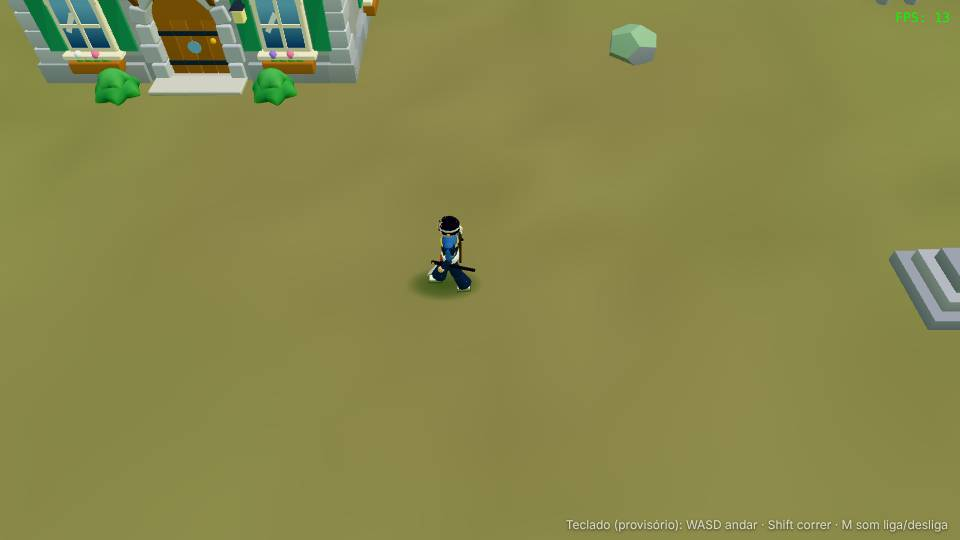
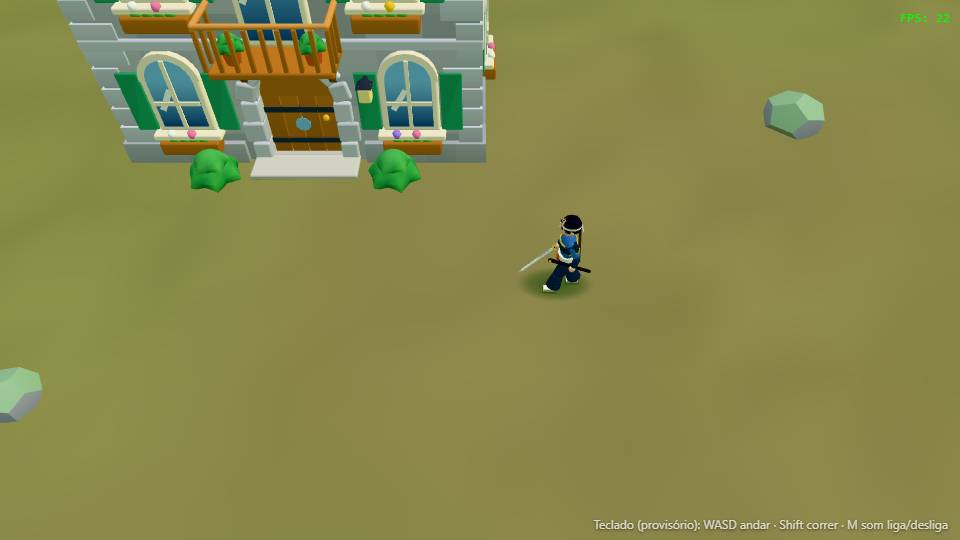
S1: controle de videogame, câmera que olha à frente e tremor
Controle (engine/input/gamepad.js): stick com zona morta, segurar B corre,
botões do DESIGN 3.7 já mapeados, vibração e aviso de conectado.
Câmera olha ~1,5 m à frente de para onde o peregrino anda e ganha tremor
(T / Y testam, só no npm run dev). Replay +10 s com controle de mentira e
câmera no hash (--update-sim). Smoke com controle de mentira.
sim.mjs passa a rodar no Windows.

diff --git a/src/game/main.js b/src/game/main.js
@@ -6,6 +6,7 @@ import { CreateEntityShadows } from '../engine/render/entity-shadows'
 import { Fps } from '../engine/render/follow'
 import { wind } from '../engine/render/style'
 import { BindKeyboard } from '../engine/input/keyboard'
+import { BindGamepad } from '../engine/input/gamepad'
 import { SetDeepTest } from '../engine/world/collision'
 import { SetGround, TooDeep } from '../engine/world/ground'
 import { SetEars } from '../engine/audio/engine'
@@ -25,6 +26,23 @@ function Wire(camera) {
   events.on('door-close', (d) => sfx('doorclose', d))
 }
 
+// impacto (golpe, aparo, golpe recebido): tremor de tela e vibração do controle. Números em balance.js · juice
+function Impact(kind, camera, pad) {
+  const S = BALANCE.juice.shake, R = BALANCE.juice.rumble, r = R[kind]
+  camera.shake((S[kind] || 0) * S.scale, S.time)
+  if (r && R.scale > 0) pad.rumble(Math.min(1, r[0] * R.scale), Math.min(1, r[1] * R.scale), r[2])
+}
+
+// aviso curto no alto da tela (ex.: "Controle conectado")
+let noteTimer
+function Note(text) {
+  const el = document.getElementById('note')
+  el.textContent = text
+  el.classList.add('on')
+  clearTimeout(noteTimer)
+  noteTimer = setTimeout(() => el.classList.remove('on'), 3500)
+}
+
 export async function LoadGame() {
   const target = document.getElementById('render-target')
   const renderer = new THREE.WebGLRenderer({ antialias: true })
@@ -40,9 +58,24 @@ export async function LoadGame() {
   BuildArena(scene, BALANCE.arena.size)
 
   const game = CreateGame(scene)
-  game.addPlayer('local', 'Peregrino') // S0: sem menu, o jogador do teclado já entra
-  BindKeyboard({ players: game.players, setInput: game.setInput, act: game.act })
-  if (import.meta.env.DEV) window.__game = game // só no npm run dev: para testes automáticos e depuração
+  game.addPlayer('local', 'Peregrino') // sem menu: teclado e controle mexem o mesmo jogador
+  const DEV = import.meta.env.DEV
+  // só no npm run dev: T (teclado) e Y (controle) testam o tremor de um golpe pesado, até os golpes chegarem (S3)
+  const act = (id, a) => (DEV && a === 'tremor' ? events.emit('impact', { kind: 'heavy' }) : game.act(id, a))
+  const input = { players: game.players, setInput: game.setInput, act }
+  BindKeyboard(input, DEV ? { t: 'tremor' } : {})
+  const help = document.getElementById('help')
+  const HELP = {
+    keys: help.textContent + (DEV ? ' · T testa o tremor' : ''),
+    pad: 'Controle: stick esquerdo anda · segure B correr' + (DEV ? ' · Y testa o tremor' : ''),
+  }
+  help.textContent = HELP.keys
+  const pad = BindGamepad(input, { ...BALANCE.pad, press: { ...BALANCE.pad.press, ...(DEV && { Y: 'tremor' }) } }, (name) => {
+    help.textContent = name ? HELP.pad : HELP.keys
+    Note(name ? `Controle conectado: ${name}` : 'Controle desconectado')
+  })
+  events.on('impact', (d) => Impact(d.kind, camera, pad))
+  if (DEV) window.__game = game // só no npm run dev: para testes automáticos e depuração
 
   addEventListener('resize', () => {
     camera.resize(target.offsetWidth / target.offsetHeight)
@@ -50,6 +83,7 @@ export async function LoadGame() {
   })
 
   function draw(dt) {
+    pad.poll() // o controle não avisa sozinho: lê a cada quadro, antes do jogo andar
     game.update(dt)
     wind.value += dt // vento: só um número; o balanço das folhas acontece na placa de vídeo
     const list = [...game.players.values()]

diff --git a/src/engine/input/gamepad.js b/src/engine/input/gamepad.js
@@ -1,0 +1,57 @@
+// Controle de videogame (API Gamepad do navegador, mapeamento "standard": Xbox e PlayStation têm os mesmos números).
+// O navegador só mostra o controle depois que alguém aperta um botão nele.
+// Não há aviso por quadro: o jogo chama poll() uma vez por quadro, ANTES de atualizar o jogo.
+// Manda o mesmo contrato do teclado (engine/input/contract.js): setInput(id, { mx, mz, ax, az, run }) e act(id, ação).
+// map = { dead, hold: { botão: campo do setInput }, press: { botão: ação } } — quem escolhe os botões é o jogo.
+
+// nome do botão → posição no controle (mapeamento standard)
+export const PAD = { A: 0, B: 1, X: 2, Y: 3, LB: 4, RB: 5, LT: 6, RT: 7, VIEW: 8, MENU: 9, L3: 10, R3: 11, UP: 12, DOWN: 13, LEFT: 14, RIGHT: 15 }
+
+// stick com zona morta redonda; o resto é reescalado (inclinar pouco = andar devagar, sem salto na borda da zona)
+export function Stick(x, y, dead) {
+  const m = Math.hypot(x, y)
+  if (m <= dead) return [0, 0]
+  const k = Math.min(1, (m - dead) / (1 - dead)) / m
+  return [x * k, y * k]
+}
+
+const down = (pad, name) => (pad.buttons[PAD[name]]?.value || 0) > 0.5 // gatilhos são analógicos: meio curso = apertado
+
+// leitura pura (o replay usa sem navegador): mensagem do setInput, botões apertados e se o controle está em uso
+export function ReadPad(pad, map) {
+  const [mx, mz] = Stick(pad.axes[0] || 0, pad.axes[1] || 0, map.dead)
+  const msg = { mx, mz, ax: 0, az: 0, run: 0 }
+  let busy = mx !== 0 || mz !== 0
+  for (const name in map.hold) if (down(pad, name)) { msg[map.hold[name]] = 1; busy = true }
+  const pressed = Object.keys(map.press).filter((name) => down(pad, name))
+  return { msg, pressed, busy }
+}
+
+// liga o controle a um jogador. onPad(nome | null): conectou / desconectou (para avisar na tela)
+export function BindGamepad(game, map, onPad = () => {}, id = 'local') {
+  let pad = null, held = new Set(), idle = true
+
+  function find() {
+    const list = [...(navigator.getGamepads?.() || [])].filter((p) => p && p.connected)
+    return list.find((p) => p.mapping === 'standard') || list[0] || null
+  }
+  function poll() {
+    const now = find()
+    if ((now && now.id) !== (pad && pad.id)) onPad(now ? now.id.replace(/\s*\(.*$/, '') || 'controle' : null)
+    pad = now
+    if (!game.players.has(id)) return
+    if (!pad) { if (!idle) game.setInput(id, { mx: 0, mz: 0, ax: 0, az: 0, run: 0 }); idle = true; held.clear(); return }
+    const r = ReadPad(pad, map)
+    // parado não manda nada (o teclado continua valendo); ao soltar, manda um "parado" só uma vez
+    if (r.busy || !idle) game.setInput(id, r.msg)
+    idle = !r.busy
+    for (const name of r.pressed) if (!held.has(name)) game.act(id, map.press[name])
+    held = new Set(r.pressed)
+  }
+  // vibração (0 a 1 em cada motor; ms = duração). Navegador sem vibração: não faz nada
+  function rumble(strong, weak, ms) {
+    const v = pad && pad.vibrationActuator
+    if (v && v.playEffect) v.playEffect('dual-rumble', { duration: ms, strongMagnitude: strong, weakMagnitude: weak }).catch(() => {})
+  }
+  return { poll, rumble }
+}

diff --git a/src/game/camera.js b/src/game/camera.js
@@ -1,27 +1,54 @@
 import * as THREE from 'three'
 
 // Câmera de cima em 3/4, fixa (não gira): segue o jogador com suavidade. Números em balance.js · camera.
-// Próximo PR (S1): antecipação para onde o jogador anda, tremor no impacto e, no S4, enquadrar o alvo travado.
+// Antecipação: olha um pouco à frente de para onde o jogador anda (mais tela do lado para onde ele vai).
+// Tremor: shake(força, tempo) desliza a câmera por um instante, sem girar (receita do survivor, engine/render/splitscreen.js).
+// No S4: enquadrar o alvo travado.
 export function CreateCamera(aspect, tune) {
   const cam = new THREE.PerspectiveCamera(tune.fov, aspect, 0.4, 120)
   const focus = new THREE.Vector3()
+  const lead = { x: 0, z: 0 }
+  const shakes = [] // tremores ativos: { power, time, t }
   let first = true
 
   function update(dt, p) {
     if (!p) return
     const y = p.gy || 0
-    if (first) { focus.set(p.x, y, p.z); first = false }
+    // antecipação proporcional à velocidade (parado = nenhuma), suavizada à parte: virar não dá tranco.
+    // + v / follow: a suavidade deixa a câmera para trás (v / follow metros); sem compensar, comeria a antecipação
+    const s = Math.hypot(p.vx, p.vz), want = s > 0.05 ? (Math.min(1, s / tune.leadSpeed) * tune.lead) / s + 1 / tune.follow : 0
+    const kl = 1 - Math.exp(-tune.leadFollow * dt)
+    lead.x += (p.vx * want - lead.x) * kl
+    lead.z += (p.vz * want - lead.z) * kl
+    const tx = p.x + lead.x, tz = p.z + lead.z
+    if (first) { focus.set(tx, y, tz); first = false }
     const k = 1 - Math.exp(-tune.follow * dt)
-    focus.x += (p.x - focus.x) * k
+    focus.x += (tx - focus.x) * k
     focus.y += (y - focus.y) * k
-    focus.z += (p.z - focus.z) * k
+    focus.z += (tz - focus.z) * k
     cam.position.set(focus.x, focus.y + tune.height, focus.z + tune.back)
     cam.lookAt(focus.x, focus.y + tune.lookY, focus.z)
+
+    // tremor: soma dos tremores ativos, mais fraco no fim; a câmera só desliza (já olhou para o jogador)
+    let sh = 0
+    for (let i = shakes.length - 1; i >= 0; i--) {
+      const q = shakes[i]
+      if ((q.t += dt) >= q.time) { shakes.splice(i, 1); continue }
+      sh += q.power * (1 - q.t / q.time) ** 2
+    }
+    if (sh > 0) {
+      sh = Math.min(sh, tune.shakeMax)
+      cam.position.x += (Math.random() - 0.5) * 2 * sh
+      cam.position.z += (Math.random() - 0.5) * 2 * sh
+      cam.position.y += (Math.random() - 0.5) * sh
+    }
   }
 
   return {
     cam,
     update,
+    // power = deslocamento máximo (m); time = duração (s)
+    shake(power, time) { if (power > 0 && time > 0) shakes.push({ power, time, t: 0 }) },
     // inclinação da linha de visada (sobe tanto por metro em direção à câmera): o recorte das casas usa
     slope: (tune.height - tune.lookY) / tune.back,
     resize(aspect) { cam.aspect = aspect; cam.updateProjectionMatrix() },

diff --git a/src/game/config/balance.js b/src/game/config/balance.js
@@ -11,7 +11,7 @@ export const BALANCE = {
   // Movimento: mesmos campos do survivor (shared/characters/player-movement.js · DEFAULT_MOVE)
   move: {
     walk: 4.4, // velocidade andando (m/s), igual ao survivor
-    run: 6.6, // velocidade correndo (Shift por enquanto; no S2 vira "segurar rolar")
+    run: 6.6, // velocidade correndo (Shift ou segurar B no controle; no S2 o Espaço também vira "segurar rolar")
     aim: 3.1, // velocidade com o mouse apertado (mira do survivor; sai quando o ataque do souls chegar)
     swim: 3.1, // nadando (a arena não tem água)
     staminaRun: 15, // fôlego gasto por segundo correndo
@@ -29,6 +29,27 @@ export const BALANCE = {
     lookY: 0.5, // altura do ponto que a câmera olha (m)
     fov: 45, // campo de visão (graus)
     follow: 6, // quanto mais alto, mais grudada no jogador (suavidade)
+    lead: 1.5, // antecipação: a câmera olha até 1,5 m à frente de para onde o jogador anda (0 desliga)
+    leadSpeed: 4.4, // a partir desta velocidade (m/s) a antecipação fica inteira (andando já é tudo)
+    leadFollow: 2.5, // suavidade da antecipação: mais baixo = demora mais para mudar quando ele vira
+    shakeMax: 0.4, // tremor máximo, somando vários ao mesmo tempo (m)
+  },
+
+  // Sensação de impacto (DESIGN 8). Por enquanto só a tecla T / botão Y testam (no npm run dev); os golpes chegam no S3
+  juice: {
+    // tremor de tela: quanto a câmera balança (m) em cada caso, e por quanto tempo (s). scale 0 desliga todos
+    shake: { scale: 1, time: 0.25, heavy: 0.1, critical: 0.18, hitTaken: 0.15 },
+    // vibração do controle: [motor forte, motor fraco (0 a 1), duração (ms)]. scale 0 desliga
+    rumble: { scale: 1, heavy: [0.35, 0.5, 110], critical: [0.7, 0.8, 200], hitTaken: [0.6, 0.6, 160] },
+  },
+
+  // Controle de videogame (DESIGN 3.7). Nomes no padrão Xbox: A B X Y · LB RB (ombros) · LT RT (gatilhos) · L3 R3 (apertar o stick)
+  // No PlayStation: A = ✕, B = ◯, X = ▢, Y = △, LB/RB = L1/R1, LT/RT = L2/R2
+  pad: {
+    dead: 0.2, // zona morta do stick (0 a 1): abaixo disso conta como solto (evita andar sozinho com o stick gasto)
+    hold: { B: 'run' }, // segurar: B corre (no S2, tocar B rola)
+    // apertar: cada ação só faz efeito quando o PR dela chegar (bater S3, travar S4, aparar S6, cabaça S7)
+    press: { A: 'use', X: 'heal', RB: 'light', RT: 'heavy', LT: 'parry', R3: 'lock', RIGHT: 'swap' },
   },
 
   arena: {

diff --git a/main.css b/main.css
@@ -3,3 +3,5 @@ html, body { height: 100%; margin: 0; background: #15120f; overflow: hidden; fon
 #fps-element { font-family: monospace; position: fixed; color: #0f0; right: 10px; top: 10px; z-index: 5 }
 #hud { position: fixed; inset: 0; pointer-events: none; color: #fff; text-shadow: 0 1px 3px #000 }
 #help { position: absolute; bottom: 8px; right: 12px; font-size: 12px; opacity: .7 }
+#note { position: absolute; top: 14px; left: 50%; transform: translateX(-50%); padding: 6px 14px; border-radius: 6px; background: #0009; font-size: 15px; white-space: nowrap; opacity: 0; transition: opacity .4s }
+#note.on { opacity: 1 }

diff --git a/index.html b/index.html
@@ -11,6 +11,7 @@
     <div id="fps-element"></div>
     <div id="root-window"><div id="render-target"></div></div>
     <div id="hud">
+      <div id="note"></div>
       <div id="help">Teclado (provisório): WASD andar · Shift correr · M som liga/desliga</div>
     </div>
     <script type="module">

diff --git a/CLAUDE.md b/CLAUDE.md
@@ -32,13 +32,16 @@ npm run build    # gera dist/ (para hospedar)
 - `npm run check` — poucos segundos, sem navegador. Rodar SEMPRE antes de abrir PR. Duas verificações:
   1. **Camadas:** imports só descem (`src/game` → `src/shared` → `src/engine`); import para arquivo ou pacote inexistente falha;
      a página tem de apontar para scripts que existem.
-  2. **Jogo (replay):** `scripts/sim.mjs` joga 60 s com sorteio e relógio fixos e compara o hash com `scripts/sim-fingerprint.txt`.
-     Roteiro do S0: anda em 8 direções (bate no muro, no cruceiro, nas pedras), corre às vezes, vai até a porta da casa, entra e sai.
+  2. **Jogo (replay):** `scripts/sim.mjs` joga 70 s com sorteio e relógio fixos e compara o hash (jogador + câmera) com `scripts/sim-fingerprint.txt`.
+     Roteiro: S0 (0–60 s) anda em 8 direções (bate no muro, no cruceiro, nas pedras), corre às vezes, vai até a porta da casa, entra e sai.
+     S1 (60–70 s) controle de mentira: stick pela metade (anda devagar), diagonal segurando B (corre), stick quase solto (parado).
      **PR de organização tem de dar igual.** PR que muda a jogabilidade de propósito: `npm run check -- --update-sim` e dizer isso na descrição.
      Cada PR de jogabilidade acrescenta a sua cena ao roteiro. `SIM_TRACE=arquivo node scripts/sim.mjs` grava o rastro quadro a quadro.
-- `npm run smoke` — teste automático (~1 min). Compila, sobe a página na porta **5199**, abre no Chromium sem tela, anda com o teclado
-  e **falha se aparecer qualquer `console.error`** ou erro de página. Capturas e log em `smoke/` (versionados: o PR mostra as capturas).
-  Sem acesso ao download do Playwright: `SMOKE_CHROME=/usr/bin/google-chrome node scripts/smoke.mjs` usa um Chrome já instalado.
+- `npm run smoke` — teste automático (~1 min). Compila, sobe a página na porta **5199**, abre no Chromium sem tela, anda com o teclado,
+  joga com um controle de mentira (`navigator.getGamepads` trocado) e **falha se aparecer qualquer `console.error`** ou erro de página.
+  Capturas e log em `smoke/` (versionados: o PR mostra as capturas). O smoke usa a versão compilada: o que é só do `npm run dev` (tecla T) fica de fora.
+  Sem acesso ao download do Playwright: `SMOKE_CHROME=/usr/bin/google-chrome node scripts/smoke.mjs` usa um Chrome já instalado
+  (no Windows: `$env:SMOKE_CHROME="C:\Program Files\Google\Chrome\Application\chrome.exe"; node scripts/smoke.mjs`).
   Sem placa de vídeo o jogo roda a 3–10 FPS: pega erro de carregar/iniciar/teclas, não bugs de longo prazo.
 - `docs/TESTE-MANUAL.md` — checklist de poucos minutos que o dono roda depois de cada PR (inclui anotar o FPS).
 - FPS real só vale na máquina do dono. Nunca tire conclusão de desempenho pelo smoke.
@@ -51,10 +54,10 @@ index.html, main.css      página do jogo → carrega src/game/main.js
 scripts/                  check.mjs (camadas + replay), sim.mjs (replay), smoke.mjs (navegador sem tela), sim-fingerprint.txt
 smoke/                    capturas + log do último npm run smoke
 docs/                     DESIGN (direção do jogo), ORIGEM (de onde veio cada arquivo), COMO-FUNCIONA (leigo), TESTE-MANUAL (checklist)
-src/engine/               genérico (copiado do survivor; novo: world/ground.js)
+src/engine/               genérico (copiado do survivor; novos: world/ground.js, input/gamepad.js)
   core/                   loop.js (laço, dt ≤ 0,05), events.js (avisos), memo.js (cache com limite)
   render/                 style.js (paleta, materiais, vento), light.js, entity-shadows.js (sombras falsas), follow.js (FPS)
-  input/                  contract.js (contrato de input), keyboard.js (teclado+mouse)
+  input/                  contract.js (contrato de input), keyboard.js (teclado+mouse), gamepad.js (controle de videogame, vibração)
   audio/engine.js         Web Audio: barramentos, primitivas, som posicional
   world/                  collision.js (grade de colisão), pathing.js (desvio, A*), noise.js, ground.js (chão/água que o jogo informa)
 src/shared/               peças prontas (copiadas do survivor)
@@ -65,9 +68,10 @@ src/shared/               peças prontas (copiadas do survivor)
   fx/                     effects.js, gore.js
   audio/                  sfx.js (efeitos soltos)
 src/game/                 este jogo
-  main.js                 liga tudo: renderer, luz, arena, câmera, teclado, laço; Wire() conecta motor ↔ peças ↔ sons
+  main.js                 liga tudo: renderer, luz, arena, câmera, teclado, controle, laço; Wire() conecta motor ↔ peças ↔ sons;
+                          Impact() = tremor + vibração; Note() = aviso curto no alto da tela
   game.js                 estado e regras (sem desenhar: o replay roda isto sem navegador)
-  camera.js               câmera de cima em 3/4, fixa, seguindo o jogador
+  camera.js               câmera de cima em 3/4, fixa: segue o jogador olhando ~1,5 m à frente (antecipação); tremor (shake)
   config/balance.js       TODOS os números ajustáveis, comentados em português
   world/arena.js          arena de teste (S0): chão, muro, cruceiro, hórreo, carvalhos, pedras e uma casa
   world/place-house.js    põe uma casa do survivor no mapa (trecho do gerador do survivor)
@@ -77,14 +81,17 @@ src/game/                 este jogo
 - `SetGround(fn, água)` (`engine/world/ground.js`): o jogo diz a altura do chão e da água. Movimento e sangue perguntam ali.
 - `SetDeepTest(TooDeep)`: água funda bloqueia. `SetCameraSlope(s)`: inclinação da câmera para o recorte do telhado.
 - Avisos (`engine/core/events.js`): as casas emitem `door-open`, `door-close`; o jogo toca o som.
+  `impact` ({ kind: `heavy` | `critical` | `hitTaken` }) → `Impact()` em `main.js`: tremor de tela + vibração (`BALANCE.juice`).
+  No S1 só a tecla T / botão Y (só no `npm run dev`) emitem; a partir do S3 os golpes emitem.
 - Peças de `shared` recebem os números como parâmetro: `UpdatePlayerMovement(p, dt, colliders, BALANCE.move)`.
 
 ## Contrato de input (proteger)
 Copiado do survivor. **Só ganha coisas, nunca muda** (para o co-op pelo celular funcionar depois).
 - `game.setInput(id, { mx, mz, ax, az, run, fire })` — mover (-1..1), mirar (-1..1), correr 0/1, `fire` só no mouse.
-- `game.act(id, ação)` — no S0 nenhuma ação faz efeito. Planejadas (DESIGN 3.7): `light`, `heavy`, `roll`, `parry`, `lock`, `heal`
+- `game.act(id, ação)` — no S1 nenhuma ação faz efeito. Planejadas (DESIGN 3.7): `light`, `heavy`, `roll`, `parry`, `lock`, `heal`
   (`use` e `swap` já existem). Bloquear (`guard`) é de segurar: entra como campo novo no `setInput`.
-- Jogador do teclado tem id `'local'`.
+- Teclado e controle mexem o mesmo jogador, id `'local'`. O controle manda o mesmo contrato (`engine/input/gamepad.js`);
+  os botões ficam em `BALANCE.pad` (`hold` = segurar → campo do `setInput`; `press` = apertar → `game.act`). Já mapeados com as ações do DESIGN 3.7.
 
 ## Decisões tomadas (não reabra sem perguntar ao dono)
 - Repositório próprio; peças copiadas do survivor (origem `e4314ee`). Conceito A (O Camiño das Ánimas), moeda cera.
@@ -118,6 +125,14 @@ TypeScript, ECS, engine nova, React. Publicar qualquer coisa.
 ## Fatos que não são óbvios no código
 - O visual do jogador é o do **Samurai** do survivor (`BALANCE.player.look`), provisório até o peregrino.
 - A tecla **Shift** corre e o **Espaço** ainda chama `jump` (o survivor pula; aqui não faz nada). No S2 o Espaço vira rolar.
+- Controle: **segurar B** corre. No S2, tocar B rola (segurar continua correndo).
+- O navegador só mostra o controle depois que alguém **aperta um botão** nele (não basta plugar). Aí aparece "Controle conectado".
+  E só em página segura (https ou localhost: o Codespaces já é https); a prévia embutida do VS Code pode bloquear. Usar uma aba normal.
+- O controle é lido a cada quadro (`pad.poll()`, antes de `game.update`). Parado (stick na zona morta, nenhum botão de segurar)
+  ele não manda nada, para não apagar o teclado; ao soltar, manda "parado" uma vez.
+- Vibração: Chrome e Edge vibram; Firefox não (o jogo segue sem erro).
+- **T** (teclado) e **Y** (controle) testam o tremor de um golpe pesado, **só no `npm run dev`**. Saem quando os golpes chegarem (S3).
+- `npm run check` roda no Windows também (o `sim.mjs` usa `pathToFileURL`).
 - Com o mouse apertado o jogador "mira" (anda devagar virado para o mouse): herança do survivor; sai quando o ataque do souls chegar.
 - Casas: a porta fica na frente (+z, virada para a câmera) quando `ry = 0`. Na arena, a casa `stone2` está em (-8, -8) e a porta em (-8, -4,6).
 - O replay só fixa o sorteio feito por código de `src/` (o Vite e o Three.js também sorteiam).
@@ -129,3 +144,7 @@ TypeScript, ECS, engine nova, React. Publicar qualquer coisa.
   `docs/TESTE-MANUAL.md`, `npm run check` (camadas + replay) e `npm run smoke`. Arena plana de 40 × 40 m com muro, cruceiro, hórreo, carvalhos,
   pedras e uma casa de 2 andares (antecipada do S1, para provar que a cópia das casas funciona). Jogador anda no teclado; câmera nova básica.
 - **fase1-design** — `docs/DESIGN.md`: conceito A (O Camiño das Ánimas), números, área da demo, inimigos, plano de PRs. Só documento.
+- **s1-camera-controle (S1)** — controle de videogame (`engine/input/gamepad.js`: stick com zona morta, segurar B corre, botões do DESIGN 3.7
+  já mapeados, vibração, aviso de conectado). Câmera olha ~1,5 m à frente (compensando o atraso da suavidade) e ganha tremor.
+  `BALANCE.camera` (lead…), `BALANCE.juice`, `BALANCE.pad`. Replay: +10 s com controle de mentira e a câmera no hash. Smoke: controle de mentira.
+  `sim.mjs` passou a rodar no Windows.

diff --git a/docs/COMO-FUNCIONA.md b/docs/COMO-FUNCIONA.md
@@ -1,7 +1,7 @@
 # Como o jogo funciona (sem código)
 
 ## A ideia em uma frase
-O jogo roda inteiro no navegador do PC. Você joga com teclado e mouse (e, a partir do S1, com controle de videogame).
+O jogo roda inteiro no navegador do PC. Você joga com teclado e mouse ou com controle de videogame (Xbox ou PlayStation, USB ou Bluetooth).
 Não tem servidor nem celular: isso só volta no co-op, depois da demo.
 
 ## De onde vieram as peças
@@ -30,10 +30,21 @@ O comando `npm run check` confere essa regra sozinho.
 | `smoke/` | Fotos e anotações do último teste automático | As capturas no PR |
 | `docs/` | Documentos para você | Este arquivo |
 
+## Controle de videogame
+- Plugue o controle e **aperte qualquer botão**: o navegador só "enxerga" o controle depois disso. Aparece "Controle conectado" no alto da tela.
+- O controle e o teclado mexem o mesmo peregrino. Dá para trocar de um para o outro a qualquer hora.
+- Os botões já seguem o plano (DESIGN 3.7), mas cada um só ganha efeito no PR dele (atacar no S3, travar no S4…).
+- Vibração: funciona no Chrome e no Edge. No Firefox o controle funciona, mas não vibra.
+
 ## Como ajustar o jogo
 Todos os números ficam num arquivo só: **`src/game/config/balance.js`**.
 Cada linha tem um comentário dizendo o que muda. Mude um número, salve, e o jogo recarrega sozinho (com `npm run dev` rodando).
-Exemplo: quer a câmera mais longe? Aumente `height` e `back` em `camera`.
+Exemplos:
+- Quer a câmera mais longe? Aumente `height` e `back` em `camera`.
+- A câmera olhando à frente incomoda? Diminua `lead` em `camera` (0 desliga).
+- Tremor forte demais? Diminua `scale` em `juice.shake` (0 desliga). Vibração: `scale` em `juice.rumble`.
+- O boneco anda sozinho com o controle parado (stick gasto)? Aumente `dead` em `pad`.
+- Trocar um botão do controle: em `pad`, troque o nome do botão (A, B, X, Y, LB, RB, LT, RT, L3, R3, UP, DOWN, LEFT, RIGHT).
 
 ## Como testar
 - Depois de cada PR: siga `docs/TESTE-MANUAL.md` (poucos minutos).

diff --git a/docs/ORIGEM.md b/docs/ORIGEM.md
@@ -48,14 +48,16 @@ Para conferir se um arquivo continua igual: `git diff --no-index <survivor>/src/
 | Arquivo | O que é |
 |---|---|
 | `src/engine/world/ground.js` | Altura do chão e da água que o jogo informa (`SetGround`). Padrão: chão plano, sem água |
+| `src/engine/input/gamepad.js` (S1) | Controle de videogame: stick com zona morta, botões de segurar e de apertar, vibração. O survivor não tinha (lá o celular era o controle) |
 
 ## Trechos copiados
 | Arquivo novo | De onde | O que mudou |
 |---|---|---|
 | `src/game/world/place-house.js` | `src/shared/worldgen/generator.js` do survivor, trecho "casas" (malha + recortes + porta + colisores + registro) | Vira uma função para uma casa só. A altura vem de `GroundAt` (em vez de `Height` do terreno). Sem as sombras falsas do chunk |
 | `scripts/check.mjs` | `scripts/check.mjs` do survivor | Camadas `game → shared → engine` (em vez de `games/<jogo>`); sem a verificação do mundo infinito |
-| `scripts/sim.mjs` | `scripts/sim.mjs` do survivor | Mesmo mecanismo (sorteio e relógio fixos); roteiro deste jogo |
-| `scripts/smoke.mjs` | `scripts/smoke.mjs` do survivor | Sem relay, celular e menu; `SMOKE_CHROME` para usar um Chrome já instalado |
+| `scripts/sim.mjs` | `scripts/sim.mjs` do survivor | Mesmo mecanismo (sorteio e relógio fixos); roteiro deste jogo; a câmera entra no hash (S1). O teste "rodei direto?" usa `pathToFileURL` (S1): o do survivor só funcionava no Linux |
+| `scripts/smoke.mjs` | `scripts/smoke.mjs` do survivor | Sem relay, celular e menu; `SMOKE_CHROME` para usar um Chrome já instalado; controle de mentira (S1) |
+| `src/game/camera.js` (tremor, S1) | `src/engine/render/splitscreen.js` do survivor, trecho do tremor (`shake`) | Uma câmera só, sem raio de alcance (tela única); limite em `BALANCE.camera.shakeMax` |
 
 ## Ainda no survivor, para quando precisar
 Tela dividida (`engine/render/splitscreen.js`), menu de vagas (`engine/ui/lobby.js`), relay (`server/`), celular (`engine/input/phone.js`):

diff --git a/docs/TESTE-MANUAL.md b/docs/TESTE-MANUAL.md
@@ -18,6 +18,14 @@ Cada PR acrescenta os itens dele aqui.
 | 6 | **Escada**: dentro da casa, ache a escada no fundo e suba | Ele sobe para o andar de cima e o recorte mostra o andar de cima | ☐ |
 | 7 | **Atrás da casa**: dê a volta e fique atrás dela | A parte da casa que tapava você fica baixinha (você continua visível) | ☐ |
 | 8 | **Som**: aperte M | Liga/desliga o som (a porta faz barulho ao abrir e fechar) | ☐ |
+| 9 | **Câmera olha à frente** (S1): ande reto para um lado por uns segundos, depois pare | Andando, o peregrino fica um pouco atrás do meio da tela: aparece mais chão do lado para onde ele vai. Parado, a câmera volta devagar a centralizar, sem tranco | ☐ |
+| 10 | **Tremor** (S1): aperte T | A tela dá um tranco curto e fraco e volta sozinha (é o tremor de um golpe pesado; os golpes chegam no S3) | ☐ |
+| 11 | **Conectar o controle** (S1): plugue (USB ou Bluetooth) e aperte qualquer botão. Use o jogo numa aba normal do Chrome ou Edge (a prévia dentro do VS Code pode não enxergar o controle) | Aviso "Controle conectado: …" no alto da tela. A ajuda no canto de baixo muda para os botões do controle | ☐ |
+| 12 | **Stick esquerdo**: incline pouco, depois tudo, depois solte | Pouco: anda devagar. Tudo: anda normal. Solto: para (não fica andando sozinho) | ☐ |
+| 13 | **Segure B** andando | Corre, igual ao Shift (correndo muito tempo, cansa) | ☐ |
+| 14 | **Aperte Y** | Mesmo tranco do item 10 e o controle vibra rapidinho (no Firefox não vibra) | ☐ |
+| 15 | **Outros botões** (A, X, RB, RT, LT, R3, direcional) | Nada acontece ainda, e o jogo não trava | ☐ |
+| 16 | **Desligar o controle** (ou tirar o cabo) | Aviso "Controle desconectado". O teclado continua funcionando | ☐ |
 
 ## Anotar o FPS
 O FPS aparece em verde no canto de cima, à direita. Anote depois de 1 minuto andando pela arena.
